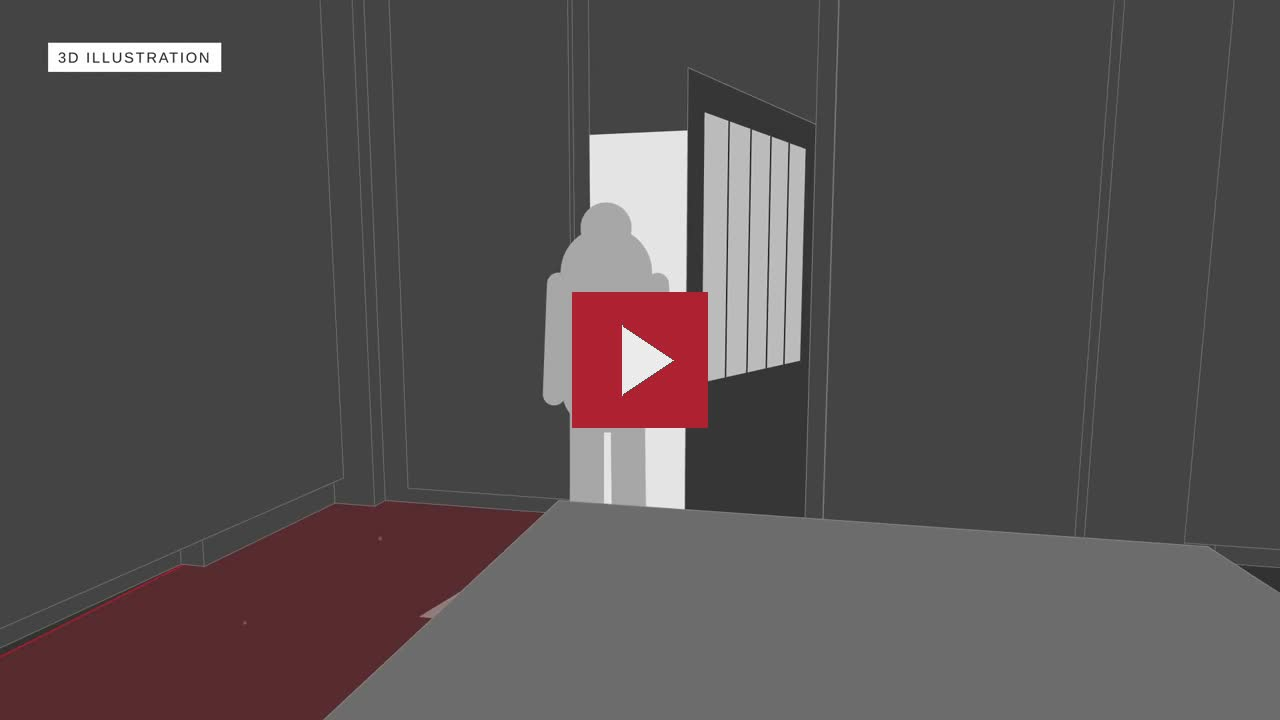
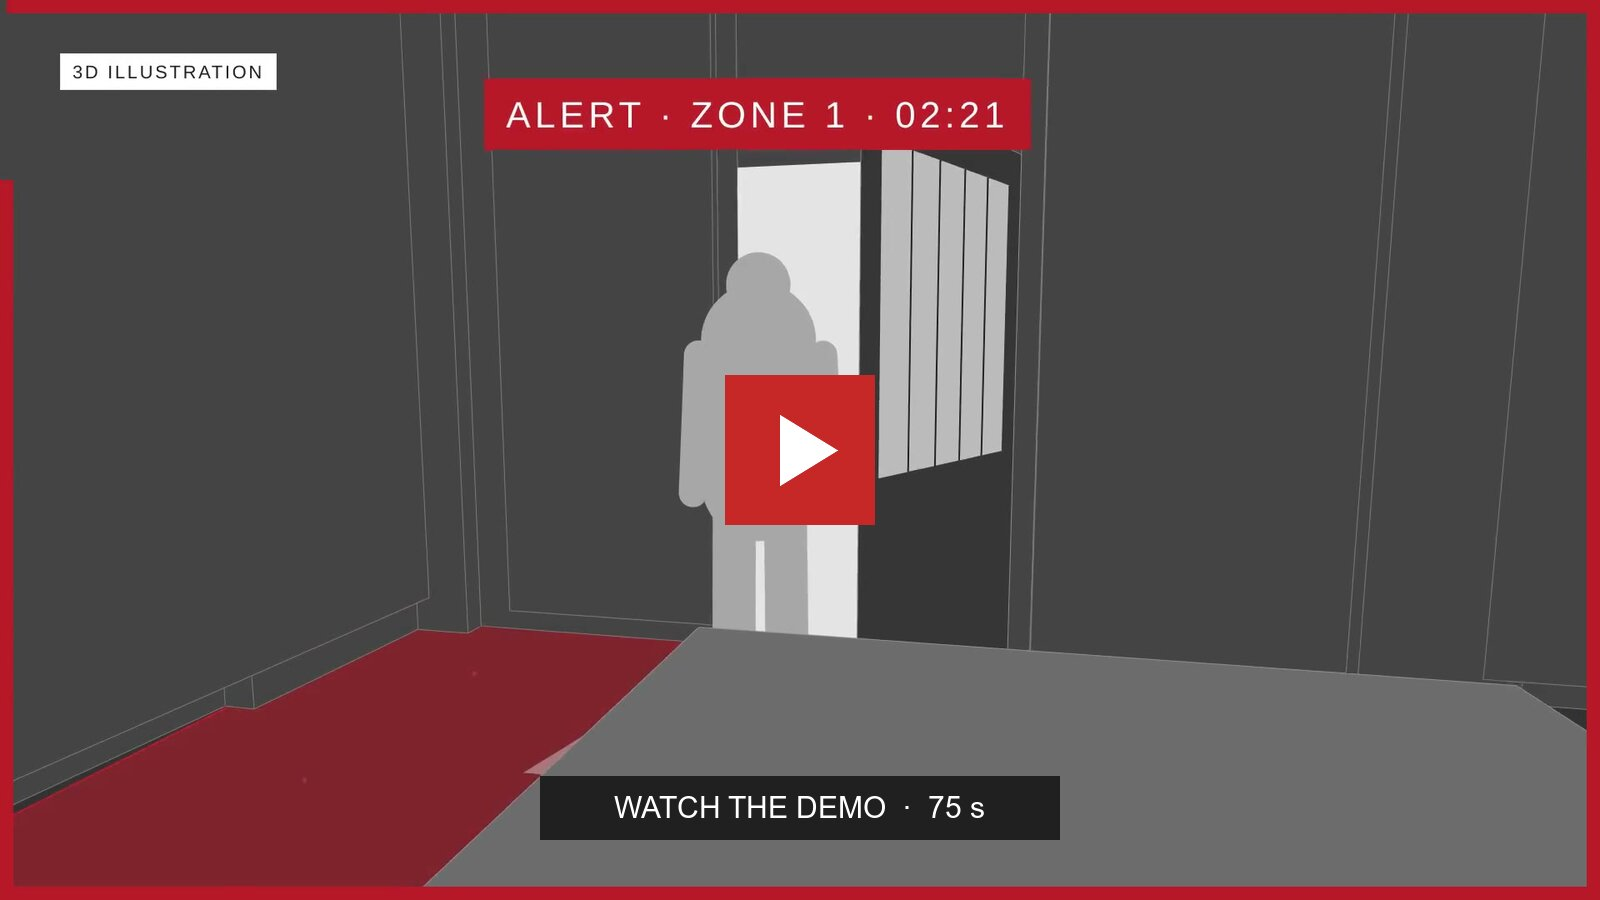
Demo video (75 s) in demo/, with its poster at the top of the README

Changed region(s): [[0.0, 0.0, 1.0, 1.0], [0.2812, 0.0611, 0.6562, 0.6111], [0.625, 0.55, 0.6562, 0.5806]]

diff --git a/demo/README.md b/demo/README.md
@@ -1,11 +1,11 @@
-# Meteora demo
+# Meteora · demo video
 
-[![Watch the Meteora demo](poster.jpg)](https://www.youtube.com/watch?v=RDiyOWQVRvs)
+**[▶ Watch the demo (75 s)](meteora-demo.mp4)**
 
-[Watch the video](https://www.youtube.com/watch?v=RDiyOWQVRvs) · 75 seconds · 1080p · Audio included
+[![Meteora demo](poster.jpg)](meteora-demo.mp4)
 
-The demo shows a camera alert, a drone checking the zone, and Grok reporting what it sees. It combines a labeled 3D illustration with real recordings.
+A 75-second walkthrough of Meteora: a phone sees a person walk through a door into a red zone, the alert, the nearest drone flying there, the report written with Grok, the voice pilot, the speed, the scanned site.
 
-[Download the MP4](https://github.com/arn9ve/Meteora/raw/refs/heads/main/demo/meteora-demo.mp4) · About 9 MB
+The 3D scenes are illustrations of the real venue (Capannone Gragnani, Pavia) built from its measured floor plan; shots tagged REAL are recordings from the hackathon.
 
-[Explore the project](../README.md)
+Back to the [project README](../README.md).

diff --git a/README.md b/README.md
@@ -11,6 +11,9 @@
 
 <p align="center">Grok Bot Hackathon · Pavia 2026 · Track D, proposed by Riello</p>
 
+<p align="center"><a href="demo/meteora-demo.mp4"><img src="demo/poster.jpg" alt="Watch the Meteora demo, 75 seconds" width="820"></a></p>
+<p align="center"><a href="demo/meteora-demo.mp4"><b>▶ Watch the demo (75 s)</b></a></p>
+
 **The problem.** A large site (around 55,000 m² in the brief) is watched by cameras, and every time a camera flags something, someone has to go and check, fast. Guards cannot check every alert, so real events and false alarms wait in the same queue.
 
 **Meteora's answer: look first, then alert.** A camera event reaches Grok, a drone flies there to check, YOLO and Grok describe the scene, and people stay in charge of what happens next.
